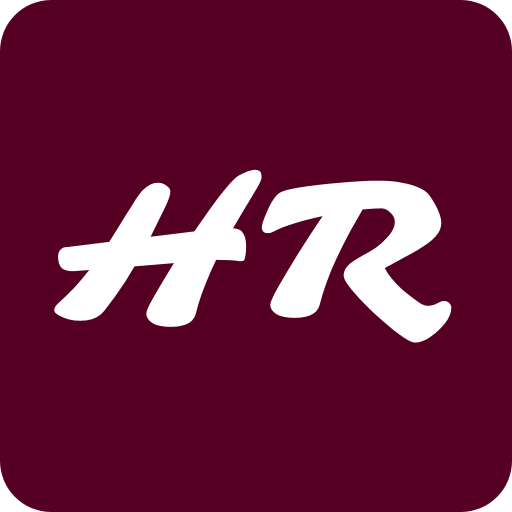
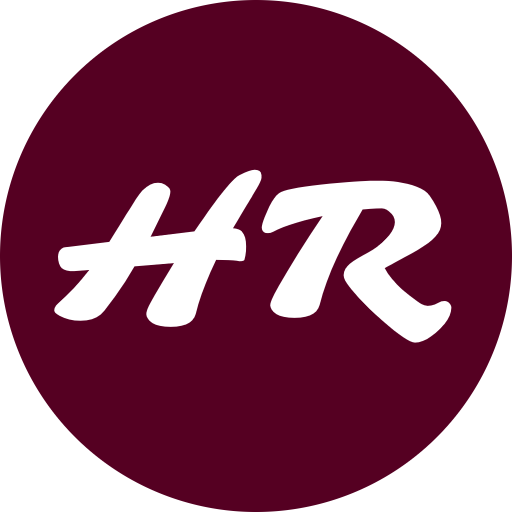
ui: setup visual feedback for being in Vite,

diff --git a/ui/src/components/Header.vue b/ui/src/components/Header.vue
@@ -13,13 +13,15 @@ const props = defineProps({
   }
 });
 
+const devString = document.getElementById('title').innerHTML === "Vite Dommern"? "dev-": "";
+
 </script>
 
 <template>
   <div class="flex flex-row justify-between p-2">
     <div class="flex flex-col items-center">
       <a :href="to">
-        <img src="/img/android-chrome-512x512.png" class="max-w-15" />
+        <img :src="`/img/${devString}android-chrome-512x512.png`" alt="logo for Hansen Racing" class="max-w-15" />
       </a>
     </div>
     <router-link :to="{name: linkName}">
